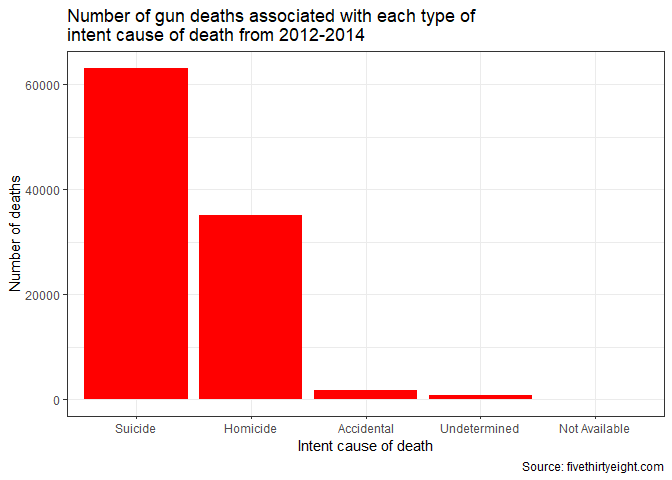
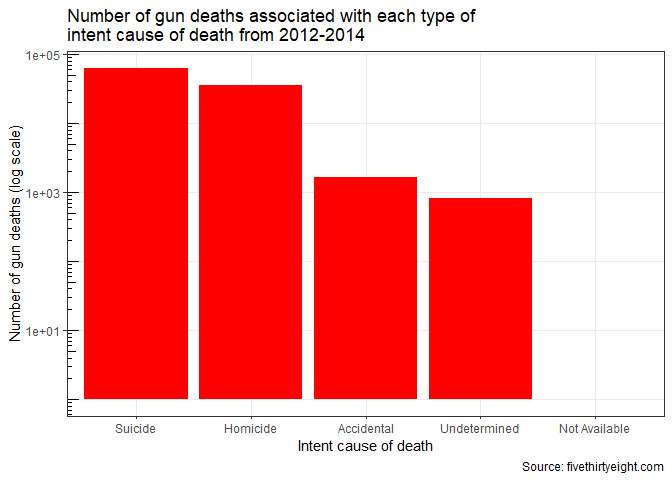
I'm about to finish, but I'm very tired, it was a lot to do.

diff --git a/HW04.md b/HW04.md
@@ -21,6 +21,7 @@ The gun\_deaths.csv is provided in the repository.
 ``` r
 library(tidyverse)    # load tidyverse packages, including ggplot2
 library(knitr)
+library(ggsignif) #This package adds significance bars to plots, useful for the last exercise
 theme_set(theme_bw())
 
 # read in the data
@@ -109,7 +110,21 @@ Assume that:
 
 ### Are whites who are killed by guns more likely to die because of suicide or homicide? How does this compare to blacks and hispanics?
 
+**Answer** Looking at the gross numbers, some general trends start to
+arise. It is clear by the data that white people gun deaths are more
+related to suicide than homicide. On the other hand, black people gun
+deaths are the opposite, with more deaths related to homicide than
+suicide. Meanwhile, hispanic population seems about the same.
+
 ![](HW04_files/figure-gfm/race-1.png)<!-- -->
+
+**Answer (continuation)** When analyzing percentages per race, it is
+worth noting that the percentage of black people killed by homicide is
+around the same as white people that committed suicide (85%). This means
+that white people is as likely to die from suicide than black people is
+to die from homicide. For the hispanic population, the likeliness of
+dying because of homicide is 20% lower than black people, but it remains
+as the most likely cause of gun death.
 
 (hint maybe looking at percentages would be good)
 ![](HW04_files/figure-gfm/race_2-1.png)<!-- -->
@@ -125,10 +140,129 @@ Assume that:
 
 ### Are police-involved gun deaths significantly different from other gun deaths? Assess the relationship between police involvement and age, police involvement and race, and the intersection of all three variables.
 
+| Police involvement | Race | Number of deaths |
+| :----------------- | :--- | ---------------: |
+| Not involved       | AP   |              529 |
+| Involved           | AP   |               30 |
+| Not involved       | BL   |            19153 |
+| Involved           | BL   |              356 |
+| Not involved       | His  |             5351 |
+| Involved           | His  |              282 |
+| Not involved       | NNA  |              301 |
+| Involved           | NNA  |               25 |
+| Not involved       | WH   |             8431 |
+| Involved           | WH   |              709 |
+
+![](HW04_files/figure-gfm/police-1.png)<!-- -->
+
+**Answer** About police involvement and race, it seems that police
+officers as not as involved with the total number of deaths per race. In
+general, numbers are at least a order of magnitude less when police is
+involved, that’s why a log 10 scale was necessary to observe all values
+clearly inside the graph. And also why I included the table.
+
 Think about performing stats such as a t.test to see if differences you
 are plotting are statistically significant
 
+``` r
+ks.test(dp_age$age[dp_age$police == "Not involved"],
+       dp_age$age[dp_age$police == "Involved"])
+```
+
+    ## Warning in ks.test(dp_age$age[dp_age$police == "Not involved"],
+    ## dp_age$age[dp_age$police == : p-value will be approximate in the presence of
+    ## ties
+
+    ## 
+    ##  Two-sample Kolmogorov-Smirnov test
+    ## 
+    ## data:  dp_age$age[dp_age$police == "Not involved"] and dp_age$age[dp_age$police == "Involved"]
+    ## D = 0.15022, p-value < 2.2e-16
+    ## alternative hypothesis: two-sided
+
+``` r
+wilcox.test(dp_age$age[dp_age$police == "Not involved"],
+                       dp_age$age[dp_age$police == "Involved"])
+```
+
+    ## 
+    ##  Wilcoxon rank sum test with continuity correction
+    ## 
+    ## data:  dp_age$age[dp_age$police == "Not involved"] and dp_age$age[dp_age$police == "Involved"]
+    ## W = 19254537, p-value < 2.2e-16
+    ## alternative hypothesis: true location shift is not equal to 0
+
+![](HW04_files/figure-gfm/police_2-1.png)<!-- -->
+
+**Answer** The distribution of victim’s age is not exactly normal, see
+the Kolmogorov-Smirnov test results (p \< 0.001), also noticeable in the
+violin plot, so the Mann-Whitman-Wilcoxon test is a better option to
+assess statistical differences between groups. Although I didn’t test
+for heterocedasticity. Police involvent in significantly different when
+comparing age victims
+
+``` r
+wilcox.test(deaths_police$age[deaths_police$police == "Not involved" & deaths_police$race == "AP"],
+       deaths_police$age[deaths_police$police == "Involved" & deaths_police$race == "AP"])
+```
+
+    ## 
+    ##  Wilcoxon rank sum test with continuity correction
+    ## 
+    ## data:  deaths_police$age[deaths_police$police == "Not involved" & deaths_police$race == "AP"] and deaths_police$age[deaths_police$police == "Involved" & deaths_police$race == "AP"]
+    ## W = 9463, p-value = 0.07582
+    ## alternative hypothesis: true location shift is not equal to 0
+
+``` r
+wilcox.test(deaths_police$age[deaths_police$police == "Not involved" & deaths_police$race == "BL"],
+       deaths_police$age[deaths_police$police == "Involved" & deaths_police$race == "BL"])
+```
+
+    ## 
+    ##  Wilcoxon rank sum test with continuity correction
+    ## 
+    ## data:  deaths_police$age[deaths_police$police == "Not involved" & deaths_police$race == "BL"] and deaths_police$age[deaths_police$police == "Involved" & deaths_police$race == "BL"]
+    ## W = 2988139, p-value = 6.279e-05
+    ## alternative hypothesis: true location shift is not equal to 0
+
+``` r
+wilcox.test(deaths_police$age[deaths_police$police == "Not involved" & deaths_police$race == "His"],
+       deaths_police$age[deaths_police$police == "Involved" & deaths_police$race == "His"])
+```
+
+    ## 
+    ##  Wilcoxon rank sum test with continuity correction
+    ## 
+    ## data:  deaths_police$age[deaths_police$police == "Not involved" & deaths_police$race == "His"] and deaths_police$age[deaths_police$police == "Involved" & deaths_police$race == "His"]
+    ## W = 593617, p-value = 1.472e-09
+    ## alternative hypothesis: true location shift is not equal to 0
+
+``` r
+wilcox.test(deaths_police$age[deaths_police$police == "Not involved" & deaths_police$race == "NNA"],
+       deaths_police$age[deaths_police$police == "Involved" & deaths_police$race == "NNA"])
+```
+
+    ## 
+    ##  Wilcoxon rank sum test with continuity correction
+    ## 
+    ## data:  deaths_police$age[deaths_police$police == "Not involved" & deaths_police$race == "NNA"] and deaths_police$age[deaths_police$police == "Involved" & deaths_police$race == "NNA"]
+    ## W = 4055, p-value = 0.5188
+    ## alternative hypothesis: true location shift is not equal to 0
+
+``` r
+wilcox.test(deaths_police$age[deaths_police$police == "Not involved" & deaths_police$race == "WH"],
+       deaths_police$age[deaths_police$police == "Involved" & deaths_police$race == "WH"])
+```
+
+    ## 
+    ##  Wilcoxon rank sum test with continuity correction
+    ## 
+    ## data:  deaths_police$age[deaths_police$police == "Not involved" & deaths_police$race == "WH"] and deaths_police$age[deaths_police$police == "Involved" & deaths_police$race == "WH"]
+    ## W = 3025982, p-value = 0.5815
+    ## alternative hypothesis: true location shift is not equal to 0
+
 Finally, all together now:
+![](HW04_files/figure-gfm/police_3-1.png)<!-- -->
 
 ## Session info
 
@@ -147,7 +281,7 @@ devtools::session_info()
     ##  collate  Spanish_Mexico.1252         
     ##  ctype    Spanish_Mexico.1252         
     ##  tz       America/Mexico_City         
-    ##  date     2020-07-24                  
+    ##  date     2020-07-25                  
     ## 
     ## - Packages -------------------------------------------------------------------
     ##  package     * version date       lib source        
@@ -174,6 +308,7 @@ devtools::session_info()
     ##  fs            1.4.1   2020-04-04 [1] CRAN (R 4.0.2)
     ##  generics      0.0.2   2018-11-29 [1] CRAN (R 4.0.2)
     ##  ggplot2     * 3.3.2   2020-06-19 [1] CRAN (R 4.0.2)
+    ##  ggsignif    * 0.6.0   2019-08-08 [1] CRAN (R 4.0.2)
     ##  glue          1.4.1   2020-05-13 [1] CRAN (R 4.0.2)
     ##  gtable        0.3.0   2019-03-25 [1] CRAN (R 4.0.2)
     ##  haven         2.3.1   2020-06-01 [1] CRAN (R 4.0.2)
